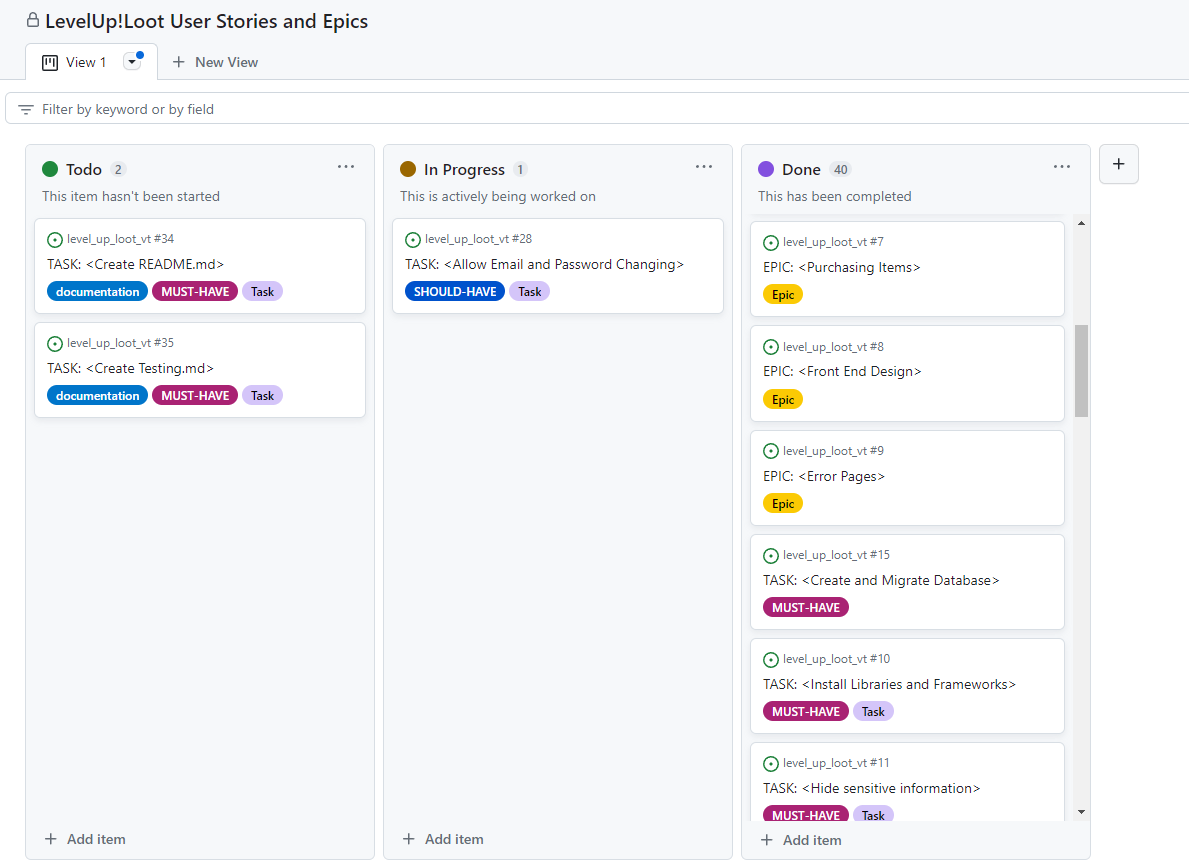
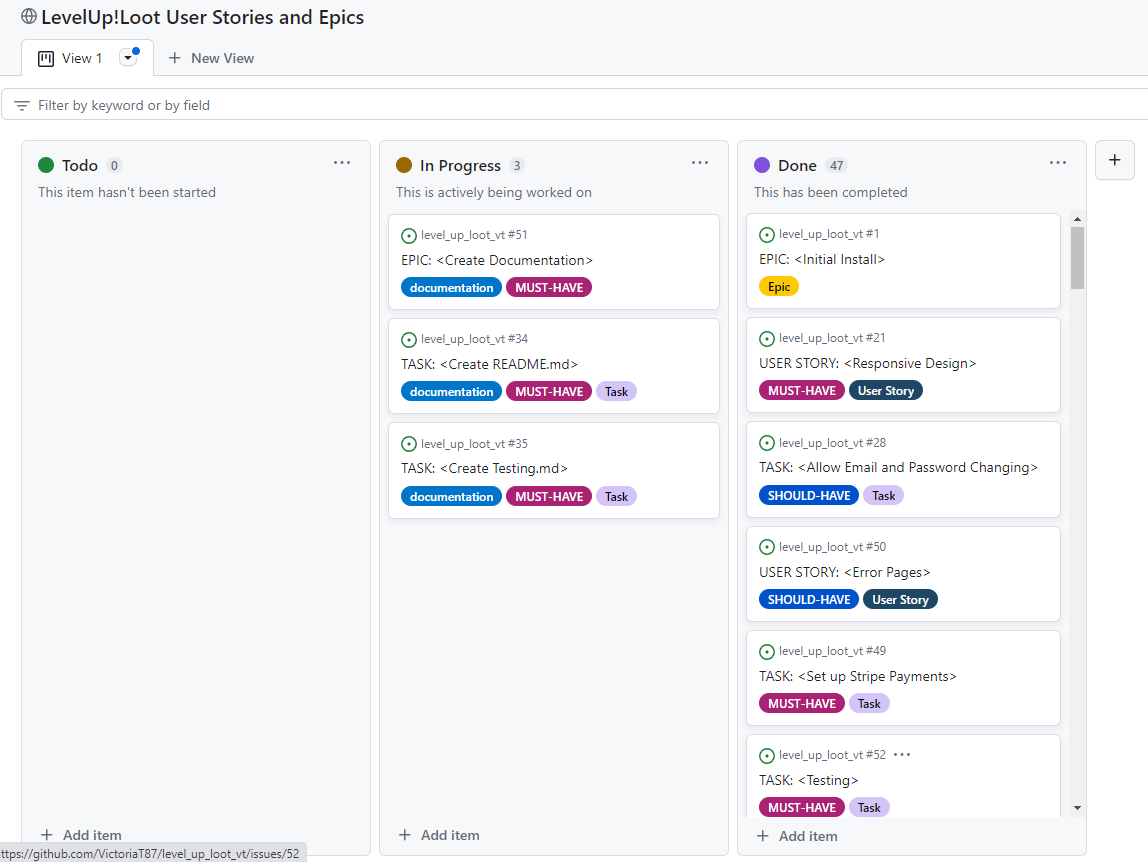
docs: Finish Agile Planning section of README.md

diff --git a/README.md b/README.md
@@ -233,25 +233,37 @@ This User Story was implemented with the use of the AllAuth package, as well as 
 
 <br>
 
-## **Epic 6: [Bookings](https://github.com/VictoriaT87/P4-Aventine-Wellness/issues/7)**
+## **Epic 6: [Adding Products to Cart](https://github.com/VictoriaT87/level_up_loot_vt/issues/6)**
 
->Create an app to allow users to book sessions with the yoga teacher
+> Create an app to allow users to view products and add them to a cart
 
-This was from the User Story:
-#### **User Story: [Manage Bookings](https://github.com/VictoriaT87/P4-Aventine-Wellness/issues/25)**
-> As a Site User/Admin I can create, update, delete a booking so that I can manage my time slot as needed
+
+This was from these User Stories:
+#### **User Story: [View Products](https://github.com/VictoriaT87/level_up_loot_vt/issues/37)**
+> As a user I can view products so that I can decide which items I want to purchase
+
+#### **User Story: [Search Products](https://github.com/VictoriaT87/level_up_loot_vt/issues/38)**
+> As a user I can search all products and view categories so that I can see only the products I'm interested in
+
+#### **User Story: [View Product Details](https://github.com/VictoriaT87/level_up_loot_vt/issues/39)**
+> As a user I can view individual product details so that I can identify the price, description, rating, image and price.
+
+#### **User Story: [Identify Deals](https://github.com/VictoriaT87/level_up_loot_vt/issues/40)**
+> As a user I can easily view deals and sales so that I can take advantage of savings on products I want to purchase
 
 Which was down broken down into these tasks:
-- **Task: [Create Bookings app](https://github.com/VictoriaT87/P4-Aventine-Wellness/issues/10)**
-> Create an app inside the Django project to allow users to book a yoga session
-- **Task: [Add Booking](https://github.com/VictoriaT87/P4-Aventine-Wellness/issues/26)**
-> Create a booking system which will allow site users and admins to book a time slot
-- **Task: [Update/Delete Booking](https://github.com/VictoriaT87/P4-Aventine-Wellness/issues/27)**
-> Allow the booking app to be updated by a Site User/Admin to change the time and date for the booked timeslot or to delete the booking entirely.
-- **Task: [No duplicate bookings](https://github.com/VictoriaT87/P4-Aventine-Wellness/issues/29)**
-> Make sure that there are measures in place so that a timeslot isn't double booked by multiple users
+- **Task: [Create Products app](https://github.com/VictoriaT87/level_up_loot_vt/issues/12)**
+>  Create a products app to install the fixtures file
+- **Task: [Manage Products](https://github.com/VictoriaT87/level_up_loot_vt/issues/23)**
+> Allow admins/superusers to add products to the store through the frontend or admin panel
+- **Task: [Add/View Products](https://github.com/VictoriaT87/level_up_loot_vt/issues/24)**
+> Create a Product app which will show all available products, with prices and ratings.
+- **Task: [Update/Delete Products](https://github.com/VictoriaT87/level_up_loot_vt/issues/25)**
+> Allow Site Admins to update and delete products available on the site
+- **Task: [Add Sale Feature](https://github.com/VictoriaT87/level_up_loot_vt/issues/47)**
+> Add the ability for an admin/superuser to add products to a sale list, with calculated discount, for users to view
 
-This User Story was the main purpose for the website. I wanted users to be able to create bookings online for the service offered by the business. It was important that the booking system was easy to use with just a few clicks, with validation for double booking days or times. The booking links are individual based off the Appointment model PK which allows for easier updating and deleting based off that number. All appointments can be edited by the user on the website (with a widget that is restricted to 7 days ahead) and can also be edited on the admin panel by staff. When a user deletes their profile, it also deletes all bookings associated with that user, using the CASCADE effect on the model.
+These User Stories are the basis of the website. This adds the product app which allows Admins/Superusers to add products to the store, update or delete them, and publish them for Site Users to view. It also adds the Sale section which will allow Users to quickly view products that are on sale, which will entice more sales for discount prices. All products can be managed on both the frontend and the admin section, with everything reflected in the database.
 
 [Back to Top](#table-of-contents)
 
@@ -261,21 +273,27 @@ This User Story was the main purpose for the website. I wanted users to be able 
 
 <br>
 
-## **Epic 6: [Contact Form](https://github.com/VictoriaT87/P4-Aventine-Wellness/issues/42)**
+## **Epic 7: [Purchasing Items](https://github.com/VictoriaT87/level_up_loot_vt/issues/7)**
 
->Create a Contact Form and associated model to store contact submissions to the admin panel.
+> Allow users to purchase items in their cart
 
-This was from the User Story:
-#### **User Story: [Contact Form](https://github.com/VictoriaT87/P4-Aventine-Wellness/issues/38)**
-> As a user I can submit a contact form so that I can ask about any queries I have regarding the site or business
+This was from these User Stories:
+#### **User Story: [View Total Spending](https://github.com/VictoriaT87/level_up_loot_vt/issues/41)**
+As a user I can easily see how much my total purchase will be so that I can avoid spending too much
+
+#### **User Story: [View Items in Cart](https://github.com/VictoriaT87/level_up_loot_vt/issues/43)**
+As a user I can view items in my bag to be purchased so that I can identify the total cost of my purchase and all the items I will receive
+
+#### **User Story: [Safe and Secure Payment](https://github.com/VictoriaT87/level_up_loot_vt/issues/42)**
+As a user I can feel that my payment is safe and secure so that I can confidently provide the needed information to make a purchase
 
 Which was down broken down into these tasks:
-- **Task: [Contact Form](https://github.com/VictoriaT87/P4-Aventine-Wellness/issues/43)**
-> Create a contact form to insert into a template to allow users to send messages to the site admin
-- **Task: [Contact Model](https://github.com/VictoriaT87/P4-Aventine-Wellness/issues/44)**
-> Create a model for the Contact form which will allow all submitted forms to be stored on the admin panel.
+- **Task: [Create Cart App](https://github.com/VictoriaT87/level_up_loot_vt/issues/48)**
+> Create a cart app which will allow site users to view their cart, update it as they wish and see their current subtotal
+- **Task: [Set up Stripe Payments](https://github.com/VictoriaT87/level_up_loot_vt/issues/49)**
+> Set up webhooks to connect and allow Stripe payments on the website
 
-This User Story was important to the site, to allow any questions or queries to be asked by the user to the admin. I initally wanted the contact form to email to the user using EmailJS, however I couldn't get this working within Django. I then tried to use the Google STMP but again, this didn't work. So I decided created a custom model, which allows the data submitted through the form to be saved to the admin panel. This allows admins to see the name and email address of the user, as well as their message.
+This Epic was the breakdown of User Stories that will allow Site Users to add products to a cart, view the subtotals and checkout securely. Stripe was used for the Webhooks to handle payments. 
 
 [Back to Top](#table-of-contents)
 
@@ -285,21 +303,21 @@ This User Story was important to the site, to allow any questions or queries to 
 
 <br>
 
-## **Epic 7: [Front End Design](https://github.com/VictoriaT87/P4-Aventine-Wellness/issues/45)**
+## **Epic 8: [Front End Design](https://github.com/VictoriaT87/level_up_loot_vt/issues/8)**
 
 >Create templates, a colour scheme, navigation and responsiveness for the website
 
 This was from the User Story:
-#### **User Story: [Responsive Design](https://github.com/VictoriaT87/P4-Aventine-Wellness/issues/20)**
+#### **User Story: [Responsive Design](https://github.com/VictoriaT87/level_up_loot_vt/issues/21)**
 > As a Site User I expect responsive elements so that I can view the website across multiple devices
 
 Which was down broken down into these tasks:
-- **Task: [Create Templates](https://github.com/VictoriaT87/P4-Aventine-Wellness/issues/30)**
+- **Task: [Create Templates](https://github.com/VictoriaT87/level_up_loot_vt/issues/26)**
 > Create templates for each page needed within the site, including the home page, a booking page, a login/create account page and pages for further information.
-- **Task: [UI Design](https://github.com/VictoriaT87/P4-Aventine-Wellness/issues/31)**
+- **Task: [UI Design](https://github.com/VictoriaT87/level_up_loot_vt/issues/27)**
 > Design a website fitting of the theme with appropriate colours, easy to navigate, easily accessible information and has full screen reader capabilities.
 
-One of the most important parts of a website, the look and layout bring out emotions in the user. The website needed to be very calm, in fitting with the theme of the business so a colour scheme was chosen to fit that, as well as images and logo. The responsiveness of the website has been extensively tested, as documented in the testing section.
+One of the most important parts of a website, the look and layout bring out emotions in the user. The website needs to be easy to navigate, while not feeling too cluttered with the many options for products to buy. The responsiveness of the website has been extensively tested, as documented in the testing section.
 
 [Back to Top](#table-of-contents)
 
@@ -309,20 +327,21 @@ One of the most important parts of a website, the look and layout bring out emot
 
 <br>
 
-## **Epic 8: [Error Pages](https://github.com/VictoriaT87/P4-Aventine-Wellness/issues/40)**
+## **Epic 9: [Error Pages](https://github.com/VictoriaT87/level_up_loot_vt/issues/9)**
 
->Create custom error page templates for 404, 403 and 500 errors.
+> Create custom error page templates for 404, 403 and 500 errors.
 
 This was from the User Story:
-#### **User Story: [Error Pages](https://github.com/VictoriaT87/P4-Aventine-Wellness/issues/41)**
+#### **User Story: [Error Pages](https://github.com/VictoriaT87/level_up_loot_vt/issues/50)**
 > As a user I can see custom error pages so that I can see exactly what my issue was and report it to the site admin if needed
 
 Which was down broken down into these tasks:
-- **Task: [404 Error Page](https://github.com/VictoriaT87/P4-Aventine-Wellness/issues/35)**
+- **Task: [404 Error Page](https://github.com/VictoriaT87/level_up_loot_vt/issues/29)**
 > Add a custom 404 Page to show the user which error they encountered while keeping the base template and css of the website.
-- **Task: [403 Error Page](https://github.com/VictoriaT87/P4-Aventine-Wellness/issues/36)**
-> Create a full Testing.md document with all necessary information on how the project was manually/automatically tested.
-- **Task: [500 Error Page](https://github.com/VictoriaT87/P4-Aventine-Wellness/issues/37)**
+- **Task: [403 Error Page](https://github.com/VictoriaT87/level_up_loot_vt/issues/30)**
+> Add a custom 403 Page to show the user which error they encountered while keeping the base template and css of the website.
+- **Task: [500 Error Page](https://github.com/VictoriaT87/level_up_loot_vt/issues/31)**
+> Add a custom 500 Page to show the user which error they encountered while keeping the base template and css of the website.
 
 Creating custom error page templates makes the website feel more fleshed out. Before their implementation, they were provided as a basic white page with black text. Hopefully the user never sees these pages but in the event that they do, it's important that the page still looks individual to the website.
 
@@ -334,14 +353,14 @@ Creating custom error page templates makes the website feel more fleshed out. Be
 
 <br>
 
-## **Epic 9: [Create Documentation](https://github.com/VictoriaT87/P4-Aventine-Wellness/issues/14)**
+## **Epic 10: [Create Documentation](https://github.com/VictoriaT87/level_up_loot_vt/issues/51)**
 
 >Create both a README.md file and a Testing.md file to show the process of creating the project
 
 Which was down broken down into these tasks:
-- **Task: [Create README.md](https://github.com/VictoriaT87/P4-Aventine-Wellness/issues/32)**
+- **Task: [Create README.md](https://github.com/VictoriaT87/level_up_loot_vt/issues/34)**
 > Create an app inside the Django project to allow users to book a yoga session
-- **Task: [Create Testing.md](https://github.com/VictoriaT87/P4-Aventine-Wellness/issues/33)**
+- **Task: [Create Testing.md](https://github.com/VictoriaT87/level_up_loot_vt/issues/35)**
 > Create a full Testing.md document with all necessary information on how the project was manually/automatically tested.
 
 Document everything needed for the process of developing and testing the website.
@@ -353,20 +372,22 @@ Document everything needed for the process of developing and testing the website
 ---
 
 #### **Others**
-- **Task: [Testing](https://github.com/VictoriaT87/P4-Aventine-Wellness/issues/39)**
+- **Task: [Testing](https://github.com/VictoriaT87/level_up_loot_vt/issues/52)**
 > Create manual and/or automated tests for a Full-Stack Web application using an MVC framework and related contemporary technologies
 
 Automatic tests were written using TestCase from Django, as well as manual testing of code and resposivness. Covered in the Testing section.
 
-- **Task: [Allow Email and Password Changing](https://github.com/VictoriaT87/P4-Aventine-Wellness/issues/34)**
+- **Task: [Allow Email and Password Changing](https://github.com/VictoriaT87/level_up_loot_vt/issues/28)**
 > Allow the User to reset both their passwords and their email addresses if they've forgotten either.
 
-This was marked was Won't Have by the end of the project. The reason for this was that I could not get the email system to work on the project. I tried both EmailJS and a Google STMP with App Access. Neither would send an email to a test account when deployed to Heroku. For this reason, I removed any links for password or email resetting. This will be further expanded on in the Bugs section.
+This is all handled through the AllAuth authentication system. Users who have forgotten their password have the option to have it emailed to them.
 
-- **Task: [Updating Information Posts on the Front Page](https://github.com/VictoriaT87/P4-Aventine-Wellness/issues/21)**
-> Allow the Site Admin to update the front page with updated information on the latest booking information
+- **User Story: [Wishlists](https://github.com/VictoriaT87/level_up_loot_vt/issues/44)**
+> As a user I can add products to a wishlist so that I can easily see which items I would like to buy eventually
+- **Task: [Wishlist](https://github.com/VictoriaT87/level_up_loot_vt/issues/45)**
+> Add an app with views/models/URLs to allow users to store a wishlist of products
 
-This was marked was Won't Have by the end of the project. I originally thought to have a blog post section on the website, to allow site admins to write posts to the front page and showcase some videos on Yoga/Meditation. Due to time constraints, this feature was deemed unneccessary but could be implemented in the future.
+These 2 tasks were added on later in the planning when I realised that the majority of e-commerce stores have some sort of wishlist/favourites section and as a user of those sites myself, I find this function very useful. Instead of having to return to the "All Products" section to find a certain product, allowing users to store their favourites in one place will make it more likely for them to return to purchase these items quickly.
 
 <br>
 
